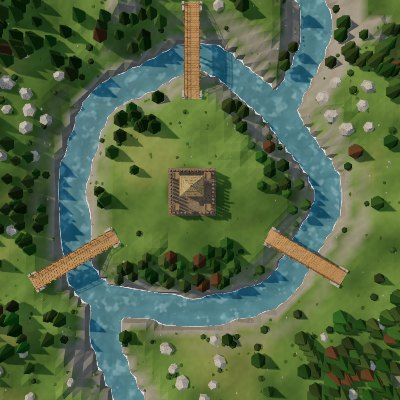
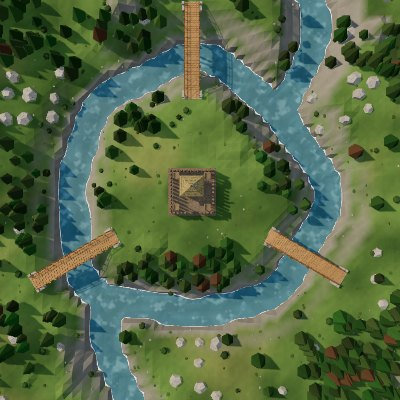
Mountain pass: raiders always spawn in the pass (a walled-off pass no longer sends them into the mountains), thicker forest round the castle, stone at the foot of the mountains, 15 minutes before the first night
Claude-Session: https://claude.ai/code/session_01AE8sRRsVdpH9ETfQvtppox

diff --git a/index.html b/index.html
@@ -457,7 +457,7 @@ const WAVES_STD = [
 // Mountain pass: one long day to prepare, then two huge nights
 const MAP_RULES = {
   pass: { waves: [{ spear: 36, sword: 18, archer: 14, hp: 1.2, dmg: 1.1, captain: 2 }, { spear: 46, sword: 28, archer: 22, hp: 1.45, dmg: 1.3, captain: 4 }],
-          day: [600, 150], spawnGap: .5 },
+          day: [900, 150], spawnGap: .5 },
 };
 var WAVES = WAVES_STD, NIGHTS = WAVES.length, DAYLEN = [300, 150, 150, 150, 150], SPAWN_GAP = 1.1;
 function mapRules() { const R = MAP_RULES[MAP]; WAVES = R ? R.waves : WAVES_STD; NIGHTS = WAVES.length; DAYLEN = R ? R.day : [300, 150, 150, 150, 150]; SPAWN_GAP = R ? R.spawnGap : 1.1; }
@@ -968,7 +968,7 @@ trunks.material.onBeforeCompile = sh => cutaway(sh);
 addGrit(trunks.material, 'wood');
 let trees = [];
 function genTrees() {
-  trees = [];
+  trees = []; if (MAP === 'pass') pickPassRocks();
   for (let cj = 0; cj < N; cj++) for (let ci = 0; ci < N; ci++) for (let a = 0; a < 3; a++) {
     const x = ci * CELL + hash(ci * 3 + a, cj) * CELL, z = cj * CELL + hash(cj + a * 7, ci * 5) * CELL;
     const dk = Math.hypot(x - KX, z - KZ);
@@ -987,7 +987,7 @@ function genTrees() {
       // pines on the gentler mountain slopes
       const ang = Math.atan2(z - KZ, x - KX) * 180 / Math.PI, p = passAt(x, z), open = p.depth > .3;
       if (open) {
-        const ring = dk > 7.2 && dk < PASS.plate + 1 && !(ang > 55 && ang < 125) && hash(x * 1.3, z * .7) < .62;   // open toward the pass, below
+        const ring = dk > 6.8 && dk < PASS.plate + 3.5 && !(ang > 62 && ang < 118) && hash(x * 1.3, z * .7) < .85;   // a thick forest round the castle, open toward the pass
         const edge = dk > PASS.plate && p.depth < 2.6 && hash(x * 1.7, z * .9) < .4;          // along the foot of the mountains
         const clump = dk > PASS.plate + 2 && fbm(x * .12 + 31, z * .12 + 17) > .6 && hash(x * .9, z * 1.9) < .5;
         if ((ring || edge || clump) && !passRockSite(x, z, 1.8)) trees.push({ x, z, s: .75 + hash(z, x) * .5, k: 1 });
@@ -1022,21 +1022,30 @@ const rockGeo = new THREE.DodecahedronGeometry(.75, 0), rockMat = mat('#958f84')
 // River isle: three outcrops just beyond the far bank, between the bridges
 const isleRockSite = (x, z, d) => MAP === 'isle' && ISLE_ROCKS.some(g => { const a = g * Math.PI / 180, R = isleR(a) + 6.5; return Math.hypot(x - KX - Math.cos(a) * R, z - KZ - Math.sin(a) * R) < d; });
 // Mountain pass: plenty of stone, in outcrops on the plateau east and south of the castle, north-west of it, and along the pass
-const PASS_ROCKS = [[19.5, 13.5], [36, 12.5], [39, 27], [15.5, 27], [23.5, 39], [34, 44.5], [19, 50]];
+// outcrops sit at the foot of the mountains (2–4 m inside the line), spread round it, so the middle stays open to build on
+let PASS_ROCK_C = [];
+function pickPassRocks() {
+  PASS_ROCK_C = [];
+  for (let n = 0; n < 4000 && PASS_ROCK_C.length < 8; n++) {
+    const x = 2 + Math.random() * (SIZE - 4), z = 2 + Math.random() * (SIZE - 6), p = passAt(x, z);
+    if (p.depth < 2.2 || p.depth > 3.8 || p.plate < 8.5 || PASS_ROCK_C.some(([a, b]) => Math.hypot(a - x, b - z) < 9)) continue;
+    PASS_ROCK_C.push([x, z]);
+  }
+}
 const passRockSite = (x, z, d) => MAP === 'pass' && passRockCentres().some(([cx, cz]) => Math.hypot(x - cx, z - cz) < d + 2.2);
-const passRockCentres = () => PASS_ROCKS;
+const passRockCentres = () => PASS_ROCK_C;
 function genRocks() {
   rocks.forEach(r => scene.remove(r.mesh)); rocks = [];
   const addRock = (x, z, s0, rot) => { const mesh = new THREE.Mesh(rockGeo, rockMat); mesh.castShadow = mesh.receiveShadow = true; mesh.rotation.set(...rot); rocks.push({ x, z, amount: ROCK_STONE, s0, mesh }); scene.add(mesh); };
   if (MAP === 'pass') {
     for (const [cx, cz] of passRockCentres()) for (let n = 0, k = 0; n < 300 && k < 8; n++) {
       const x = cx + (Math.random() - .5) * 5, z = cz + (Math.random() - .5) * 5;
-      if (!passOpen(x, z) || Math.hypot(x - KX, z - KZ) < 6.5 || rocks.some(r => Math.hypot(r.x - x, r.z - z) < 1.7)) continue;
+      if (!passOpen(x, z) || passAt(x, z).depth > 5 || Math.hypot(x - KX, z - KZ) < 6.5 || rocks.some(r => Math.hypot(r.x - x, r.z - z) < 1.7)) continue;
       addRock(x, z, .95 + Math.random() * .5, [Math.random() * 3, Math.random() * 3, Math.random() * 3]); k++;
     }
     for (let n = 0, k = 0; n < 4000 && k < 14; n++) {
       const x = 1 + Math.random() * (SIZE - 2), z = 1 + Math.random() * (SIZE - 2);
-      if (!passOpen(x, z) || Math.hypot(x - KX, z - KZ) < 7 || rocks.some(q => Math.hypot(q.x - x, q.z - z) < 3)) continue;
+      if (!passOpen(x, z) || passAt(x, z).depth > 4.5 || Math.hypot(x - KX, z - KZ) < 7 || rocks.some(q => Math.hypot(q.x - x, q.z - z) < 3)) continue;   // scattered along the mountains' foot too
       addRock(x, z, .85 + Math.random() * .5, [Math.random() * 3, Math.random() * 3, Math.random() * 3]); k++;
     }
     return;
@@ -3062,11 +3071,13 @@ function nearestBuilding(x, z, maxD = 1e9, ok = null) { let best = null, bd = ma
 function edgePoint() {
   const C = castleB(), dp = C && doorPoint(C);   // a spawn must have a walkable route to the castle's door
   if (MAP === 'pass') {                          // always the foot of the pass, on the bottom edge
-    for (let n = 0; n < 160; n++) {
+    // with a route to the castle if there is one; walled off, anywhere open down there (they come up and break the walls),
+    // never the old fallback in the mountains, where they stood stuck
+    for (const needRoute of [true, false]) for (let n = 0; n < 120; n++) {
       const x = 13 + Math.random() * 28, z = SIZE - 1.2;
-      if (passOpen(x, z) && cellPass(cellAt(x, z), 2) && (!dp || findPath(x, z, dp.x, dp.z, 2))) return { x, z };
+      if (passOpen(x, z) && passOpen(x, z - 1) && (!needRoute || !dp || findPath(x, z, dp.x, dp.z, 2))) return { x, z };
     }
-    return { x: 4, z: SIZE - 1.5 };
+    return { x: 27, z: SIZE - 1.5 };
   }
   for (let n = 0; n < 80; n++) {
     const side = Math.floor(Math.random() * 4), t = 2 + Math.random() * (SIZE - 4);

diff --git a/CLAUDE.md b/CLAUDE.md
@@ -57,7 +57,7 @@ The whole game is currently one self-contained file: `index.html` (~165 KB, thre
 - Three maps, picked on a dark title screen ("Medieval Town Defense", "Choose map"; `#mapPick` covers everything, visible from the first paint so the game never shows behind it) on entry and on Restart / Play again (`#mapPick`, `showMapPick`; each card shows a picture of the real map, `maps/meadow.jpg` / `maps/isle.jpg` / `maps/pass.jpg`, rendered by `node tools/render/maps.js [--three …]` (re-run after changing a map): square 400 px pictures straight down over the map (`VIEW`, zoomed in just enough that no background shows past its edges), shown square on the cards; the game waits paused underneath; last choice in `localStorage['mtd-map']`, highlighted). `?map=meadow|isle|pass` (and `?debug` / `?gallery`) skip the picker; a stored choice that isn't a known map is ignored. `MAP` is read by `genHeight`, `genTrees`, `genRocks`, `canStand`; `KX/KZ` (castle site) are set per map in `startGame` (Meadow 19,27 / cells 8–10,12–14; River isle 27,27 / cells 12–14,12–14; Mountain pass 27,21 / cells 12–14,9–11).
 - **Meadow**: the original map: a winding river on the east side (`meadowRiverX`), crossed by one fixed bridge square across it on the castle's row (`bridgeRays`). Rocks: a stony patch between the castle and the river north of the bridge (8) plus up to 48 scattered (≈510 stone). Nobody wades any river (`canStand` modes 1 and 2 need h ≥ .3), so raiders spawning east of it must cross the bridge.
 - **River isle**: the castle on a flat island inside a wobbly ring of river (`ISLE.r` 16.6 m, `isleR(angle)`), hills beyond the far bank. Two more rivers flow out of the ring to the map's edge, north-east and south-west (`isleOutN`/`isleOutS`, carved in `genHeight` outside the ring only), so the far bank is split in two. Three fixed, free timber footbridges at `ISLE_BRIDGES` (−90°, 30°, 150°), each radial (square across the ring). Bridges at any angle (`genBridges` from `bridgeRays`: march along a ray; each end runs on past the water until it lands on flat ground at the bank top (`flat`: height > .5, slope < .6 on the centre line and 1.3 m either side, up to 6 m), so the deck is level with the ground beside its ends; trestles wherever the deck is over 1 m above the ground; a bridge is `x0, z0, dx, dz, L`, deck `DECK_W` 1.9; `bridgeT`/`bridgeW`/`onDeck`; `bridgeCell[n]` = index + 1 for every cell the deck touches, `b.ends` its end cells). `deckY(b, t)` arches the deck (`BRIDGE_RISE` .45); units stand at `walkY` (the deck inside its strip, else the ground) everywhere they are drawn; `cellPass` lets everyone path over bridge cells, `canStand` only on the deck strip; A* steps on and off a bridge only through its end cells; `routePoints` turns a run of bridge cells into: a point on the ground 0.8 m in front of the entry end, the deck's end, its far end, the ground beyond (on-deck starts/targets keep `bridgeWaypoint` centre-line points); a unit standing on the ground in a cell a deck touches counts as off the bridge (`deckAt`, in `findPath` and `clearLine`), else it was routed up the deck's side and stood stuck on the bank; raiders can't wade (`canStand` mode 2 needs h ≥ .3). Nothing can be built or pathed on a bridge ("Bridge"). Model: `makeBridge` (planks across the arch, two log stringers, trestles where it crosses water, log railings, grey stone landings), `buildBridges` after `syncTerrain`. Woods on the island (clear round the castle and along the way to each bridge), forest beyond the river; stone only beyond the river: three outcrops between the bridges (`ISLE_ROCKS`, `isleRockSite`, 7 rocks each) plus 16 scattered rocks, so masons either live by the castle and walk via a bridge or build out by the rocks, exposed.
-- **Mountain pass** (`MAP` 'pass'): no water. The castle on a plateau in the middle of the top half (`PASS.plate` 9.5 m round it, height 6); the open ground rings it and narrows into a pass (about 23–27 m wide, its sides unalike) coming up from the bottom edge (x ≈ 14–39), falling to about 1.5 m there and rolling a little, inside an uneven line of mountains (`PASS_EDGE` polyline, closed below the map's bottom edge; `passAt` gives the depth inside it, wobbled by noise); rough mountains beyond (8–18 m, ridged noise, snow over 16 m via `SNOW_C` in `recolor`) behind 3 m cliffs (`passHeight`). `passOpen(x, z)` (depth > .3) is the only ground anyone may stand on, path through or build on (`canStand`, `cellPass`, `evaluate` "Too steep"), so every raider comes up the pass from the bottom edge, where they spawn (`edgePoint`). Trees: a forest ring round the castle except toward the pass (south), trees along the foot of the mountains, clumps in the open, and unreachable `deco` pines on the mountains (`treeFree` skips them). Stone is plentiful: outcrops at `PASS_ROCKS` (seven, 8 rocks each) plus 14 scattered. Rules (`MAP_RULES.pass`, applied by `mapRules()` in `startGame`): one 600 s day, then night 1 = 70 raiders (36 spear, 18 sword, 14 archer, 2 captains, hp ×1.2), a 150 s day, night 2 = 100 (46/28/22 + 4 captains, hp ×1.45); raiders spawn every `SPAWN_GAP` .5 s; same starting resources. The camera starts looking up the pass (`yaw` 0). Only a raider's bigger parts (bounding radius ≥ .16) cast shadows (`spawnEnemy`), as up to 100 can be on screen.
+- **Mountain pass** (`MAP` 'pass'): no water. The castle on a plateau in the middle of the top half (`PASS.plate` 9.5 m round it, height 6); the open ground rings it and narrows into a pass (about 23–27 m wide, its sides unalike) coming up from the bottom edge (x ≈ 14–39), falling to about 1.5 m there and rolling a little, inside an uneven line of mountains (`PASS_EDGE` polyline, closed below the map's bottom edge; `passAt` gives the depth inside it, wobbled by noise); rough mountains beyond (8–18 m, ridged noise, snow over 16 m via `SNOW_C` in `recolor`) behind 3 m cliffs (`passHeight`). `passOpen(x, z)` (depth > .3) is the only ground anyone may stand on, path through or build on (`canStand`, `cellPass`, `evaluate` "Too steep"), so every raider comes up the pass from the bottom edge, where they spawn (`edgePoint`: an open point there with a route to the castle door, else any open point there, so a walled-off pass still spawns them in the pass to break the walls; the old fallback in the mountains left them stuck). Trees: a thick forest ring round the castle (6.8 to 13 m out) except toward the pass (south), trees along the foot of the mountains, clumps in the open, and unreachable `deco` pines on the mountains (`treeFree` skips them). Stone is plentiful and kept to the foot of the mountains so the middle stays open: 8 outcrops picked each game 2.2–3.8 m inside the mountain line (`pickPassRocks` → `PASS_ROCK_C`, 9 m apart), 8 rocks each no deeper than 5 m in, plus 14 scattered no deeper than 4.5 m. Rules (`MAP_RULES.pass`, applied by `mapRules()` in `startGame`): one 900 s day (15 min), then night 1 = 70 raiders (36 spear, 18 sword, 14 archer, 2 captains, hp ×1.2), a 150 s day, night 2 = 100 (46/28/22 + 4 captains, hp ×1.45); raiders spawn every `SPAWN_GAP` .5 s; same starting resources. The camera starts looking up the pass (`yaw` 0). Only a raider's bigger parts (bounding radius ≥ .16) cast shadows (`spawnEnemy`), as up to 100 can be on screen.
 - Raiders route on the cell grid with `walkTo` (mode 2) toward a fixed point on their target's near side (`e.tp`, reset on each 3 s retarget), straight `steer` only within 3 m; a wall in the way (stuck or 3.5 s without progress) is attacked as before. Spawn points (`edgePoint`) must be walkable (`cellPass` mode 2) and have a route to the castle's door (a route to the castle's centre never exists: it is inside the building), else raiders spawned on steep edge hills stood stuck.
 - No building over a rock (`evaluate`: "Rocks"), so stone is never buried.
 - **Map sides** (`buildEdges`, from `syncTerrain`): solid earth walls from the ground's edge down to `EDGE_BASE` −4 (vertex-coloured: grassy lip, soil, darker below) and a water cross-section where a river runs off the edge, so the map reads as a block of land from low angles. (A 50 m scenery skirt beyond the map was tried and dropped.)
